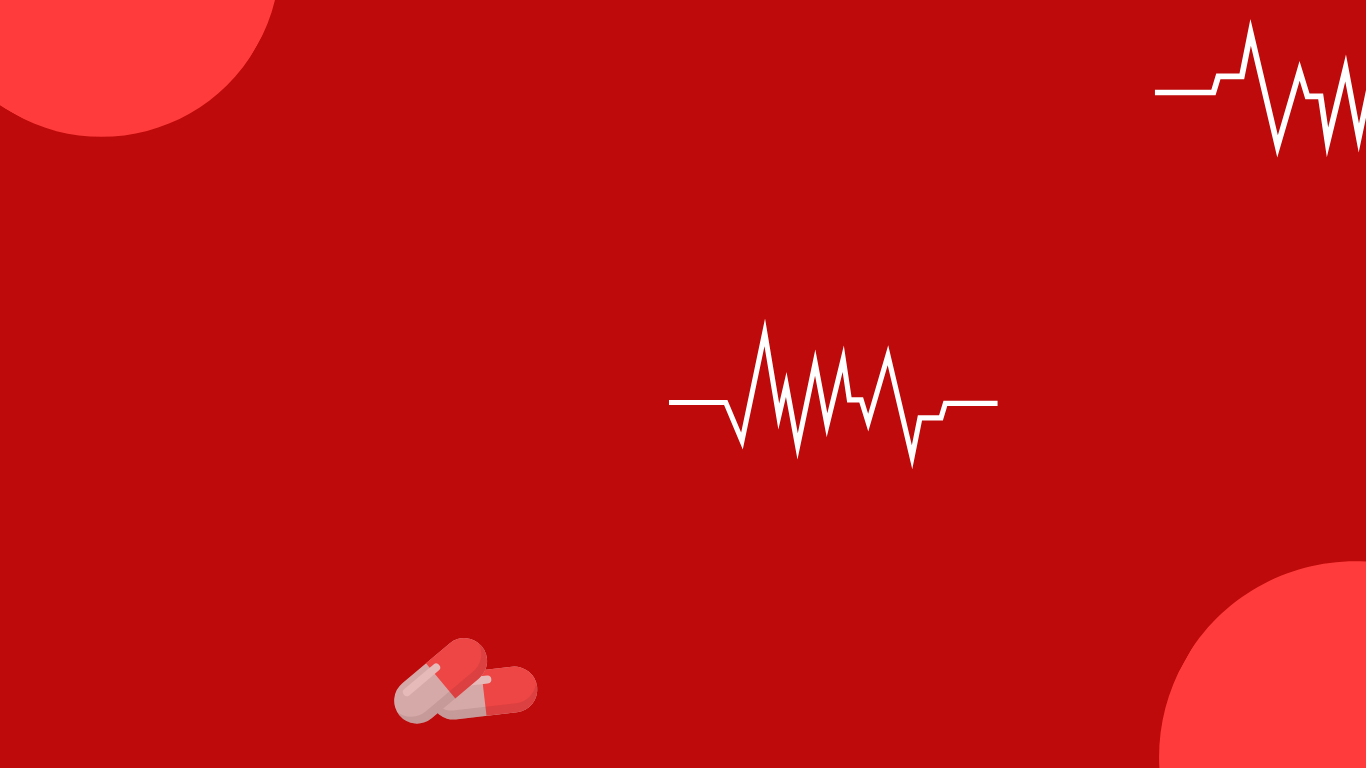
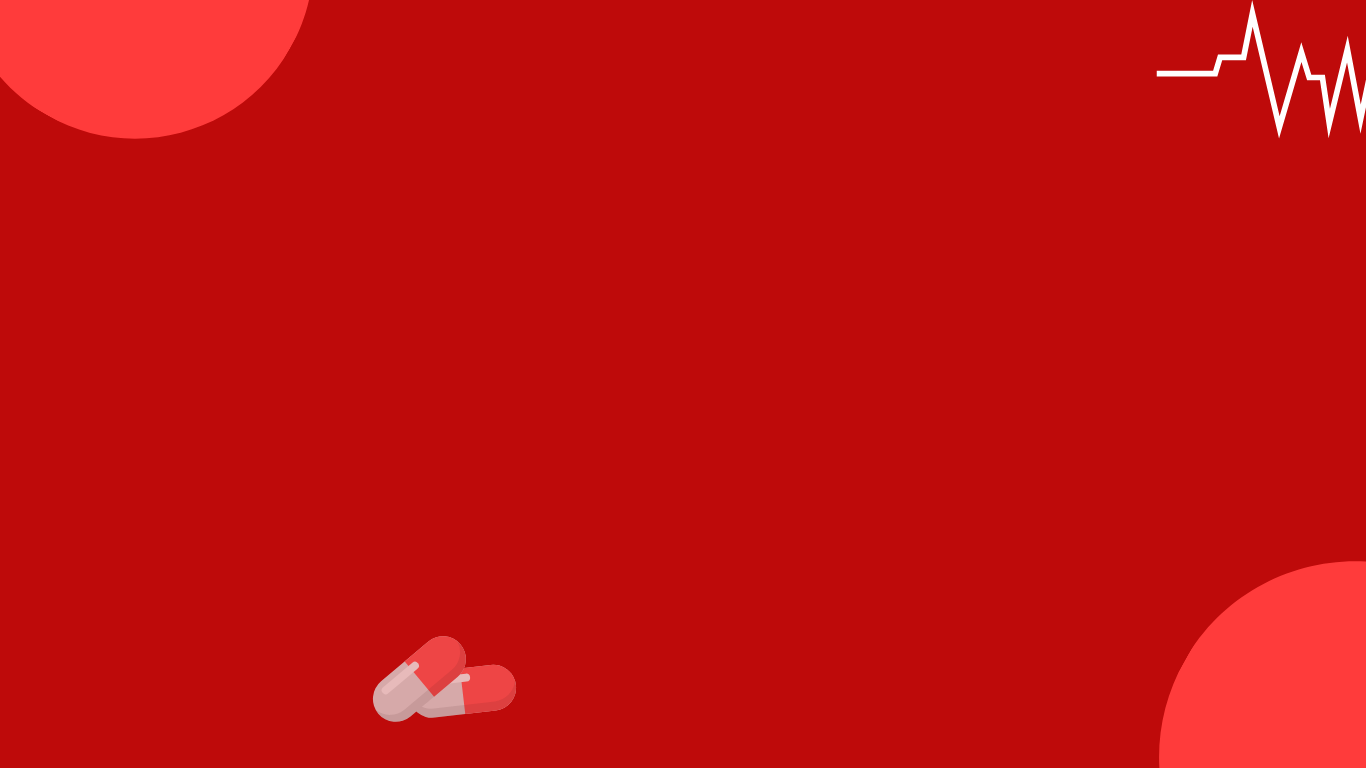
few footer changes and dashboard bg image

diff --git a/src/pages/Dashboard/pages/Dashboard.jsx b/src/pages/Dashboard/pages/Dashboard.jsx
@@ -4,16 +4,35 @@ import { useEffect, useState } from "react";
 import Button from "../../../components/Button";
 import Navbar from "../../../components/NavBar";
 import HoverImage3D from "../../../components/HoverImage";
-import HeroBg from '/Hero_bg.png'
+import HeroBg_Big from '/Hero_bg_big.png'
+import HeroBgMedium from '/Hero_bg.png' 
 import { useMutation } from "@tanstack/react-query";
 import { toast } from "react-toastify";
 import { chatHistory } from "../../../services/authService";
 import Footer from "../../../components/Footer";
+import { useMediaQuery } from 'react-responsive';
 
 export default function Dashboard()
 {
     const navigate = useNavigate();
     const {setUserChat, userChat, user, setLoading, token, loading} = useAuthStore();
+    
+    // Use media queries to detect screen sizes
+    const isLargeScreen = useMediaQuery({ minWidth: 1300 });
+    const isMediumScreen = useMediaQuery({ minWidth: 800, maxWidth: 1299 });
+    const isSmallScreen = useMediaQuery({ maxWidth: 799 });
+    
+    const getBackgroundImage = () => {
+        if (isLargeScreen) {
+            return HeroBg_Big;
+        } else if (isMediumScreen) {
+            return HeroBgMedium;
+        // } else if (isSmallScreen) {
+        //     return HeroBgSmall;
+        }
+        return HeroBgMedium; // default
+    };
+
     const showToast = (message, type = 'error') => {
         toast[type](message,{
             position: "top-right",
@@ -30,7 +49,7 @@ export default function Dashboard()
         mutation.mutate({
             "token" : token
         });
-    },[])
+    },[token])
 
     const handleClick = () => {
         setLoading(true);
@@ -66,8 +85,8 @@ export default function Dashboard()
             <Navbar/>
             <div className="h-full">
                 {/* Hero Section */}
-                <div className=" h-4/5 w-full flex mt-16 md:mt-24 px-10 items-center  bg-cover bg-center justify-between"
-                    style={{ backgroundImage: `url(${HeroBg})` }}>
+                <div className="h-4/5 w-full flex mt-16 md:mt-24 px-10 items-center bg-cover bg-center justify-between"
+                    style={{ backgroundImage: `url(${getBackgroundImage()})` }}>
                     <div className="flex flex-col p-4 ">
                         <div className="text-white text-md md:text-2xl lg:text-4xl font-medium">
                             Welcome To HealthCare At <br/> Your FingerTips 24/7!!
@@ -82,7 +101,7 @@ export default function Dashboard()
                     </div>
                     <div className="mr-10 mb-10 relative group"> 
                         <div 
-                            className=" bg-white text-red-500 font-semibold px-3 py-2 rounded-2xl text-sm absolute top-4 -right-6 opacity-0 group-hover:opacity-100 transition-all duration-300 shadow-md"
+                            className="bg-white text-red-500 font-semibold px-3 py-2 rounded-2xl text-sm absolute top-4 -right-6 opacity-0 group-hover:opacity-100 transition-all duration-300 shadow-md"
                         >
                             Hi {userChat?.firstName || ""}, How can I <br/> help you?
                         </div>
@@ -113,4 +132,4 @@ export default function Dashboard()
             <Footer/>
         </>
     );
-} 
+}

diff --git a/src/components/Footer.jsx b/src/components/Footer.jsx
@@ -31,10 +31,10 @@ export default function Footer(){
                     </div>
                 </div>
                 <div>
-                    <div className="font-bold text-xs md:text-md lg:text-lg">
+                    <div className="font-bold text-xs pb-2 md:text-md lg:text-lg">
                         Get The App
                     </div>
-                    <div><img src="" alt="QR code" /></div>
+                    <img src="qr_code.png" alt="QR code" className="w-30 h-24 pb-4"/>
                 </div>
             </div>
             <div className="bg-red-700 text-white text-xs md:text-md font-medium h-16 flex justify-center items-center">
